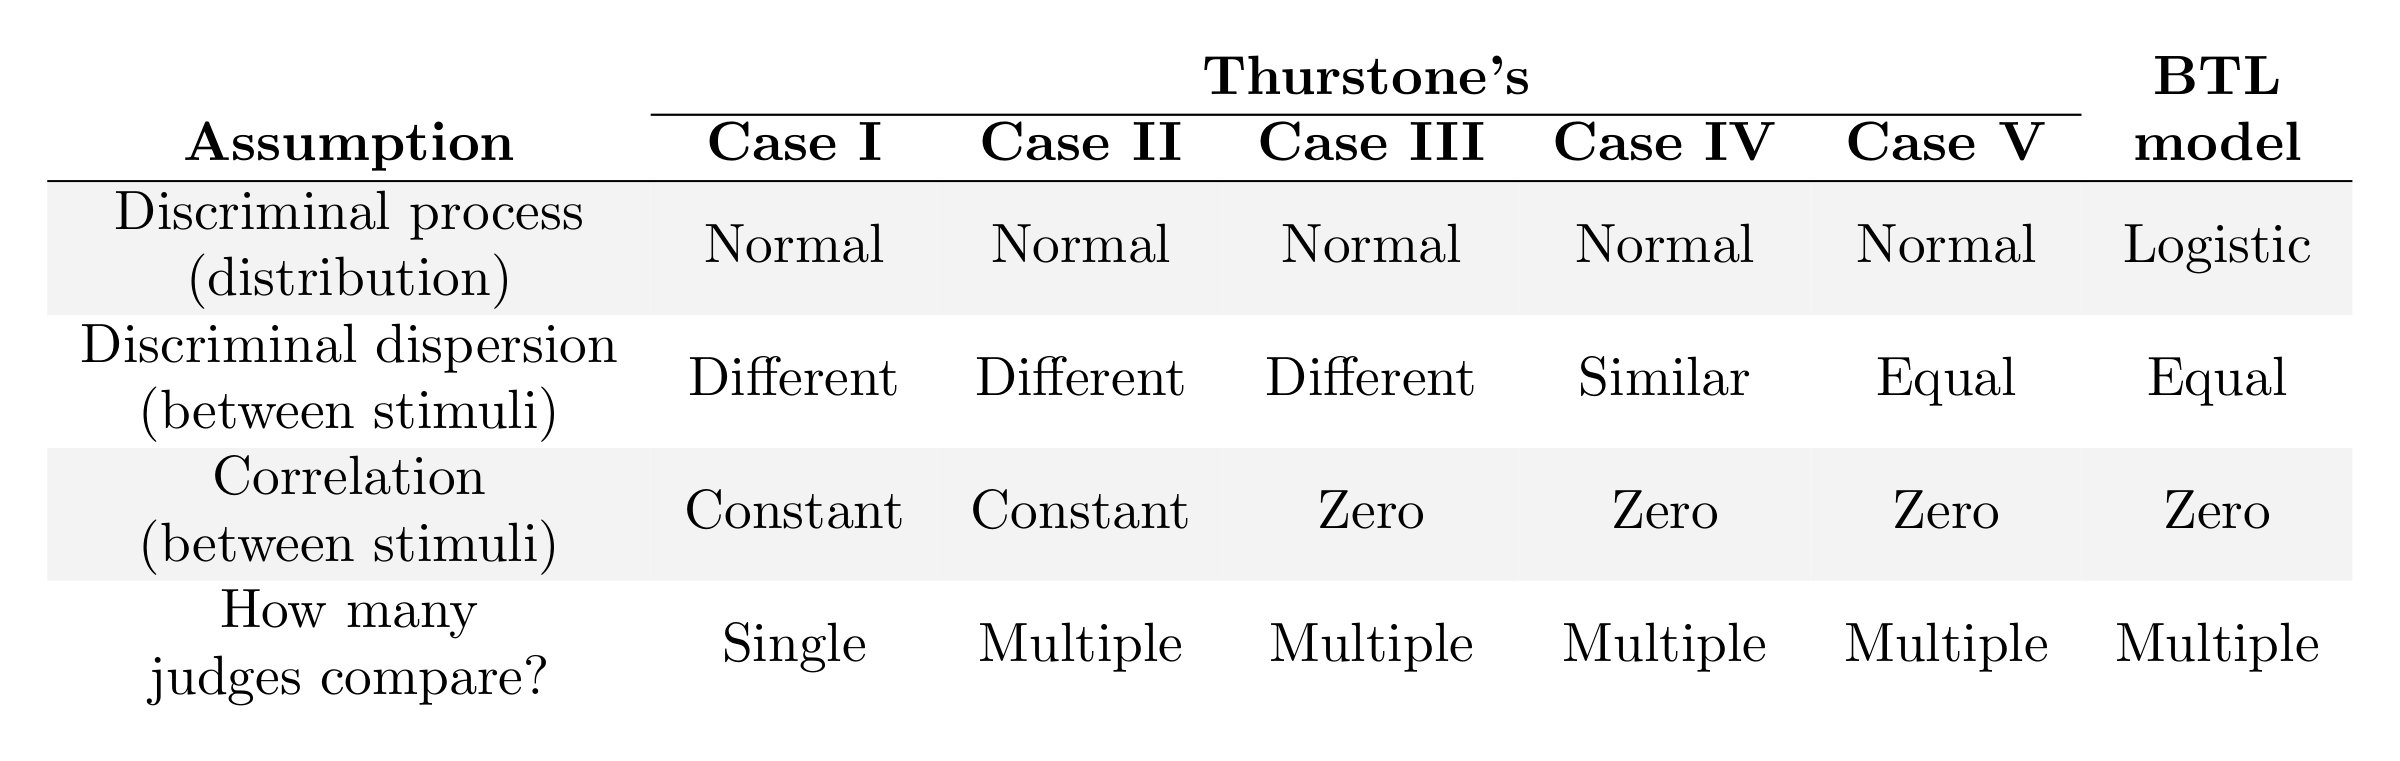
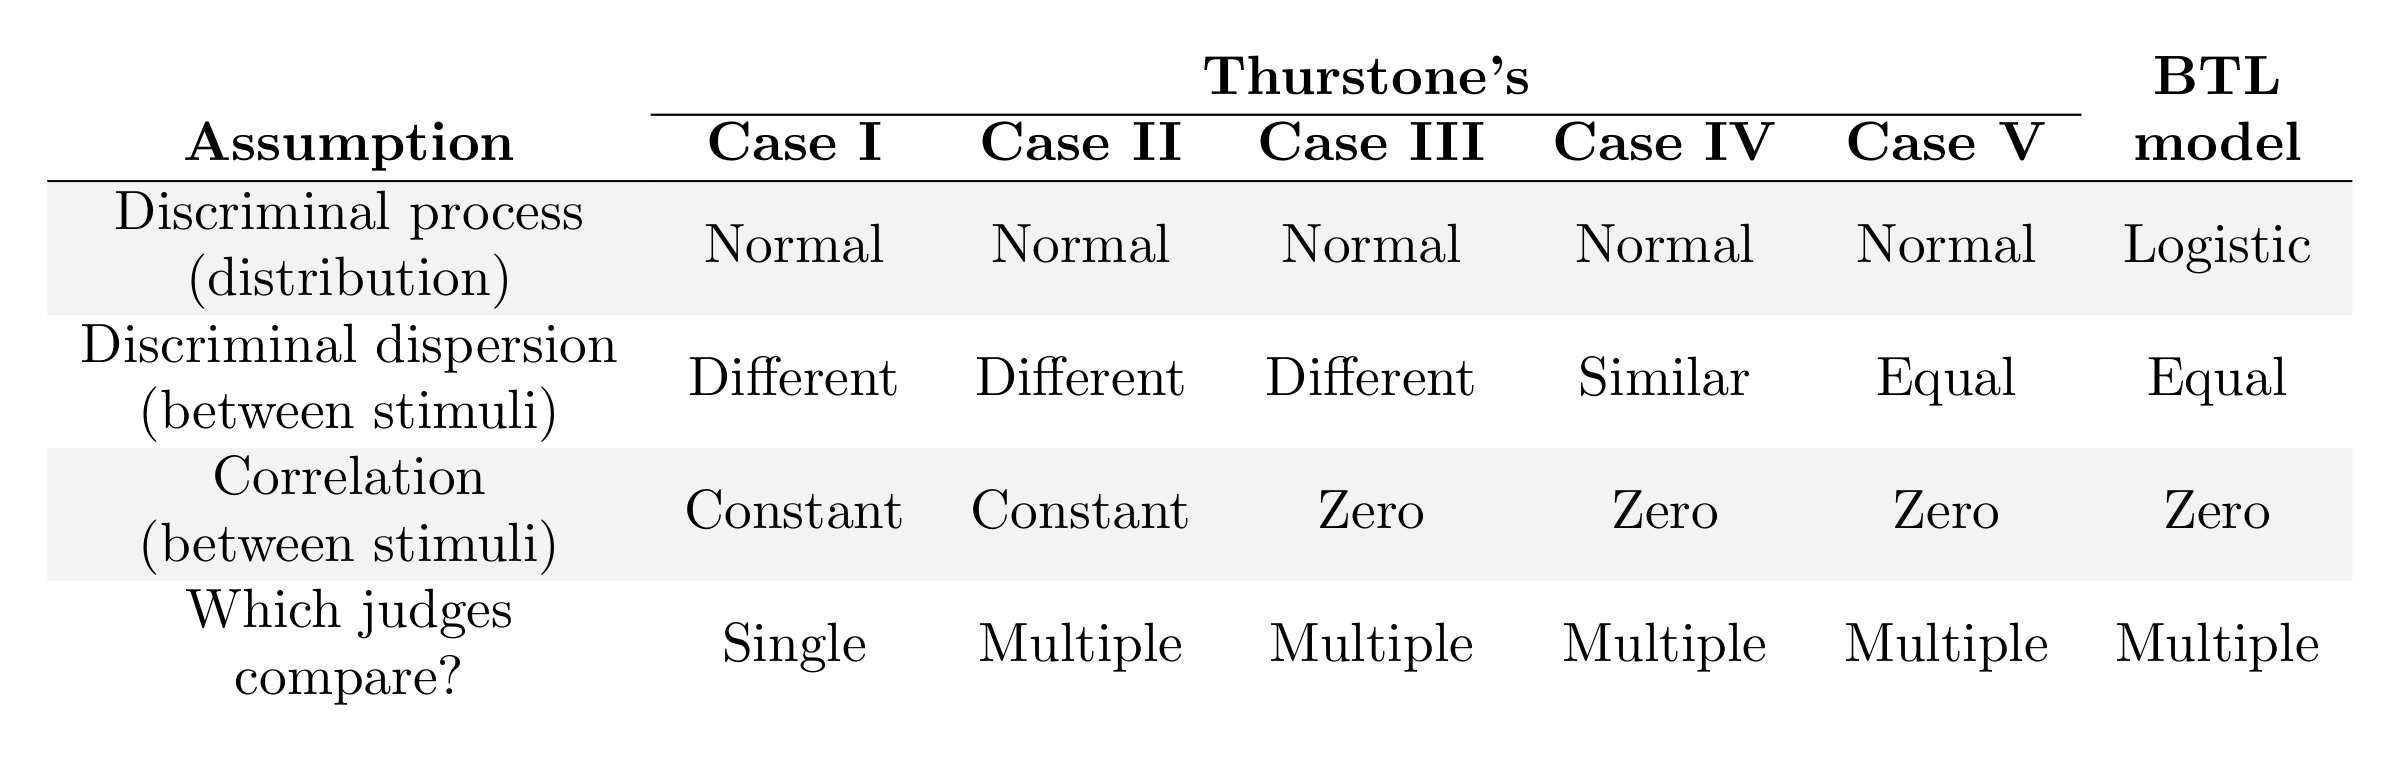
section:issues; process:write

Changed region(s): [[0.0625, 0.7556, 0.2188, 0.8463], [0.0625, 0.8765, 0.2188, 0.9369]]

diff --git a/images/tables/thurstone_cases.tex b/images/tables/thurstone_cases.tex
@@ -23,7 +23,7 @@
 
         \rowcolor{gray.95} \Centerstack{ Correlation \\ (between stimuli) } & Constant & Constant & Zero & Zero & Zero & Zero \\
 
-        \Centerstack{ How many \\ judges compare? } & Single & Multiple & Multiple & Multiple & Multiple & Multiple \\
+        \Centerstack{ Which judges \\ compare? } & Single & Multiple & Multiple & Multiple & Multiple & Multiple \\
 
         %\rowcolor{gray.95} \Centerstack{ Bias effects \\ in judges? } & Possible & Possible & \Centerstack{ Cancels \\ out } & \Centerstack{ Cancels \\ out } & \Centerstack{ Cancels \\ out } & \Centerstack{ Cancels \\ out } \\
          
